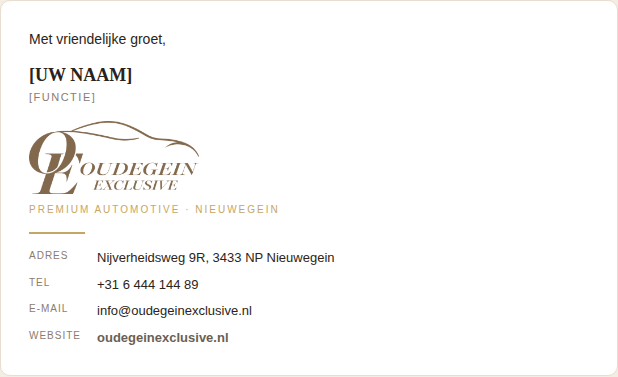
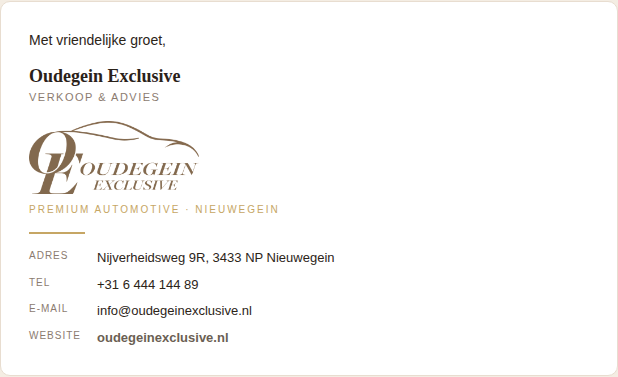
Add files via upload

Changed region(s): [[0.0307, 0.1751, 0.3074, 0.2918], [0.0307, 0.0875, 0.2767, 0.1459]]

diff --git a/oudegein-handtekening.html b/oudegein-handtekening.html
@@ -13,7 +13,7 @@
 </head>
 <body>
 
-  <p class="uitleg"><strong>E-mailhandtekening Oudegein Exclusive.</strong> Selecteer hieronder alles (Cmd/Ctrl + A), kopieer het (Cmd/Ctrl + C) en plak het in je handtekening-instelling. Vervang <strong>[UW NAAM]</strong> en <strong>[FUNCTIE]</strong> door de juiste gegevens.</p>
+  <p class="uitleg"><strong>E-mailhandtekening Oudegein Exclusive.</strong> Selecteer hieronder alles (Cmd/Ctrl + A), kopieer het (Cmd/Ctrl + C) en plak het in je handtekening-instelling in STRATO.</p>
 
   <div class="kader">
   <!-- ======================= HANDTEKENING — begin ======================= -->
@@ -25,12 +25,12 @@
     </tr>
     <tr>
       <td style="padding:0 0 2px 0;font-family:Georgia,'Times New Roman',serif;font-size:18px;font-weight:bold;color:#2a2119;line-height:1.3;">
-        [UW NAAM]
+        Oudegein Exclusive
       </td>
     </tr>
     <tr>
       <td style="padding:0 0 16px 0;font-family:Arial,Helvetica,sans-serif;font-size:11px;letter-spacing:1.5px;text-transform:uppercase;color:#8b7b6f;line-height:1.4;">
-        [FUNCTIE]
+        Verkoop &amp; Advies
       </td>
     </tr>
     <tr>
